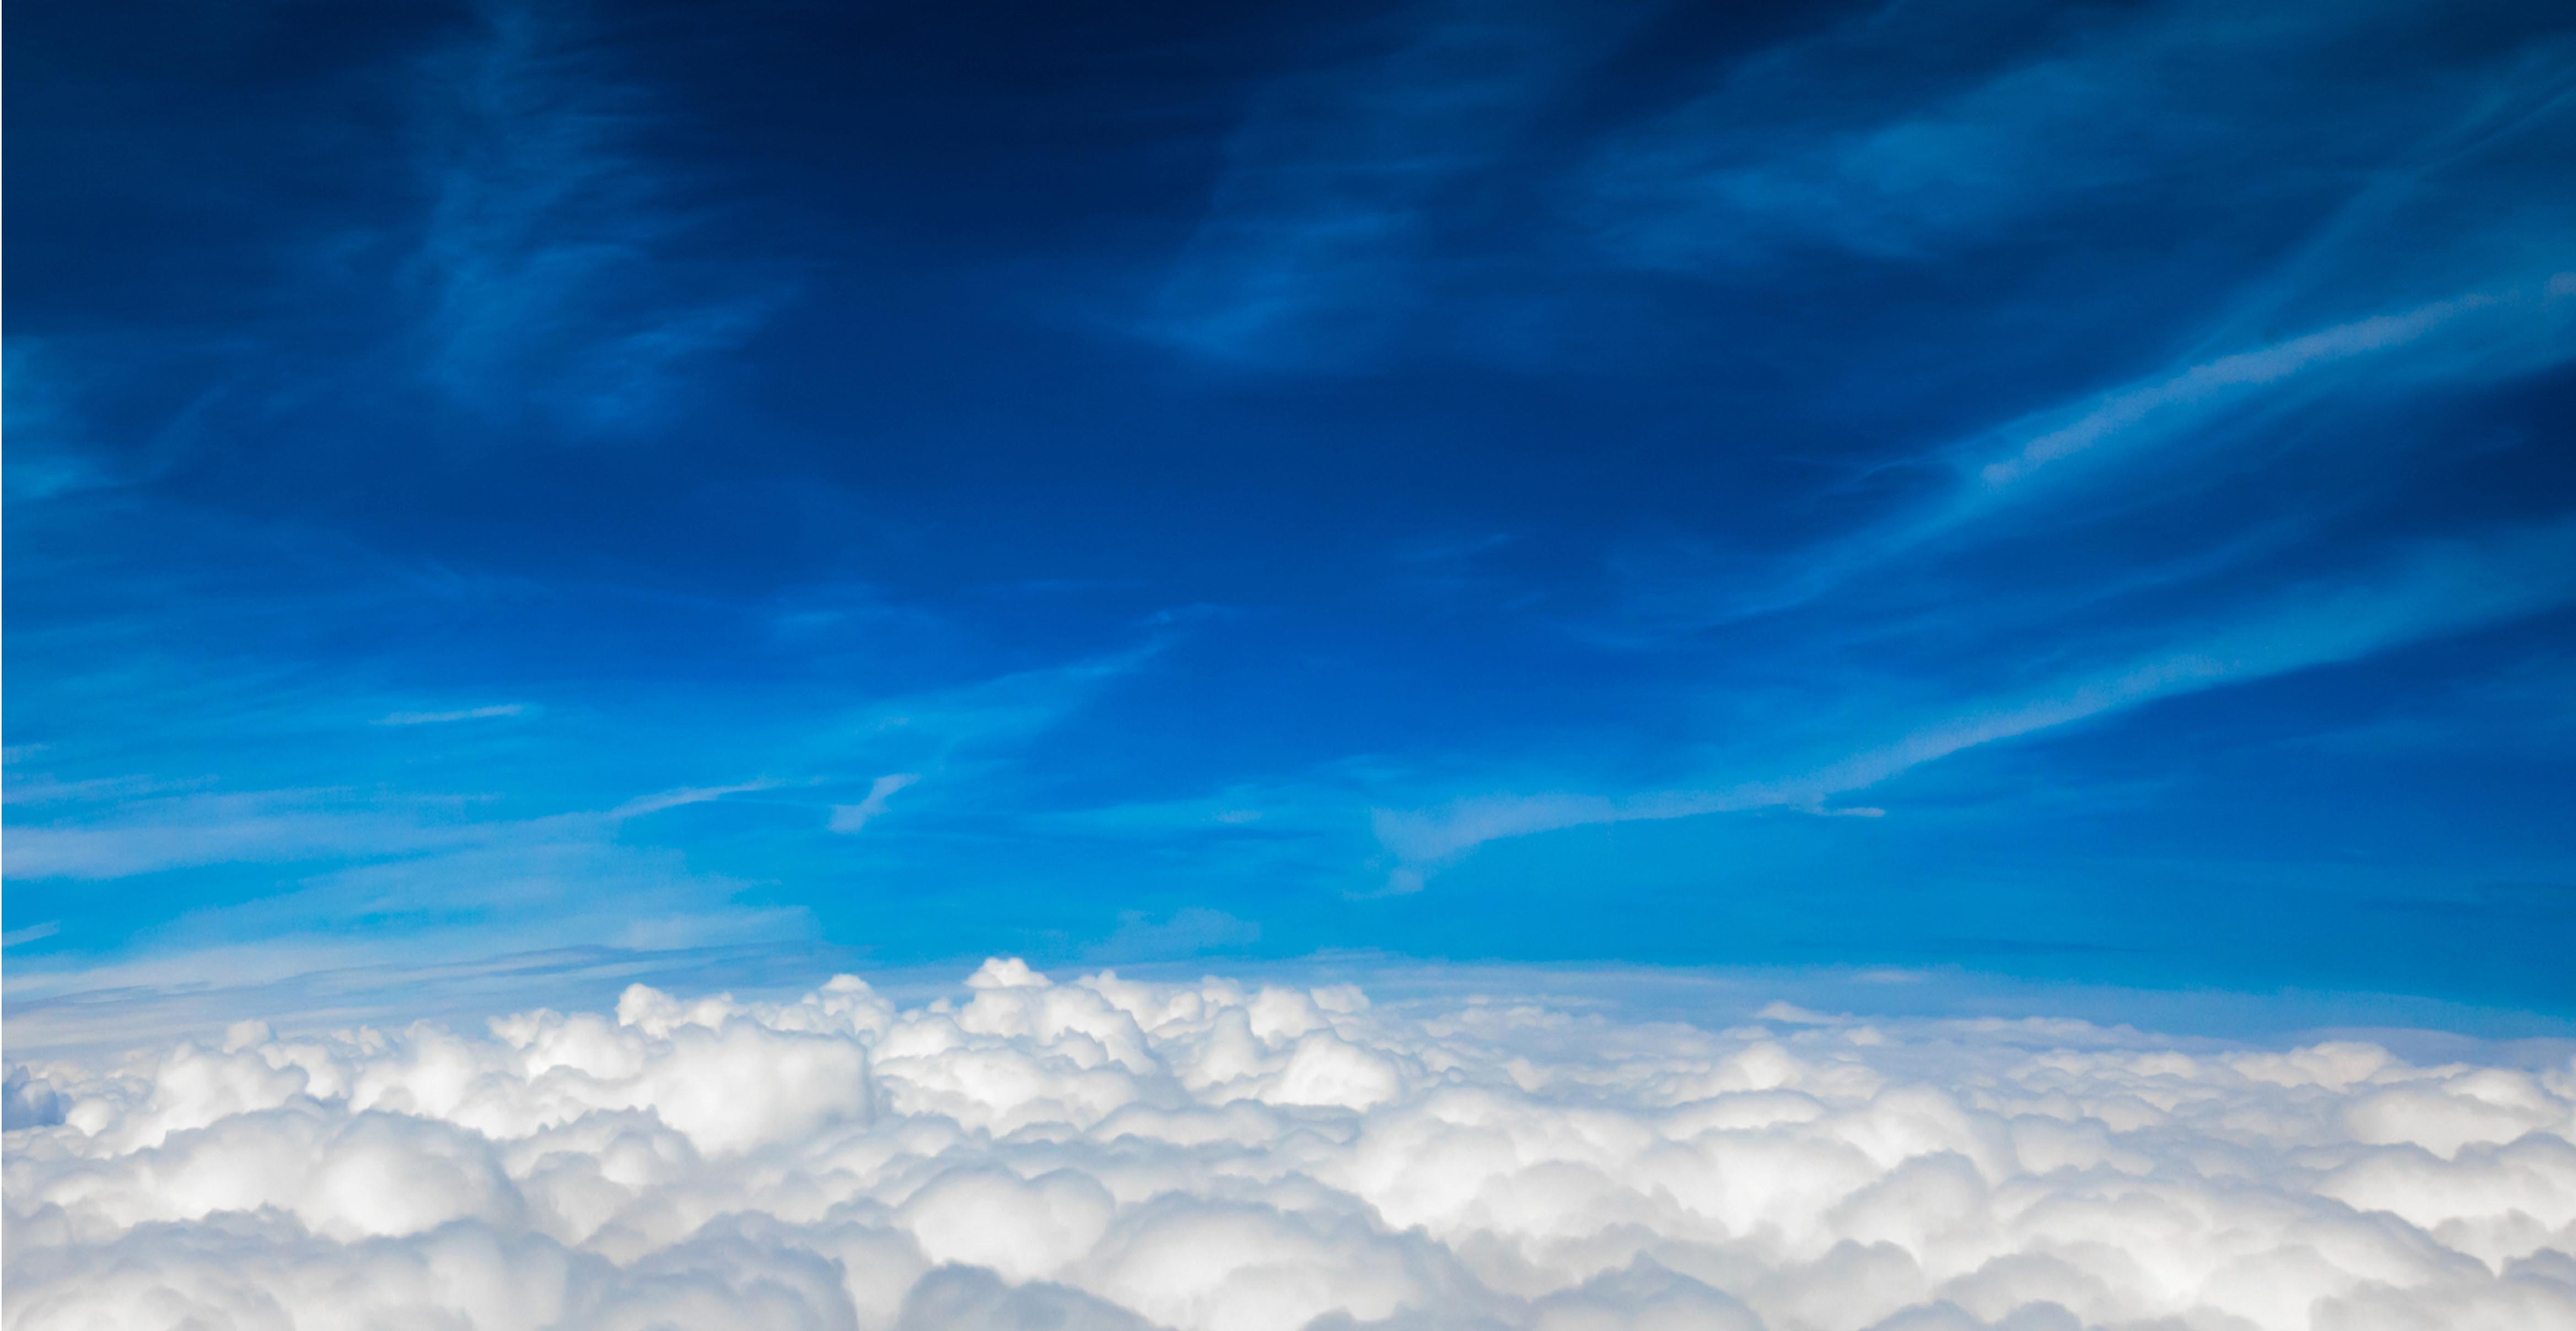
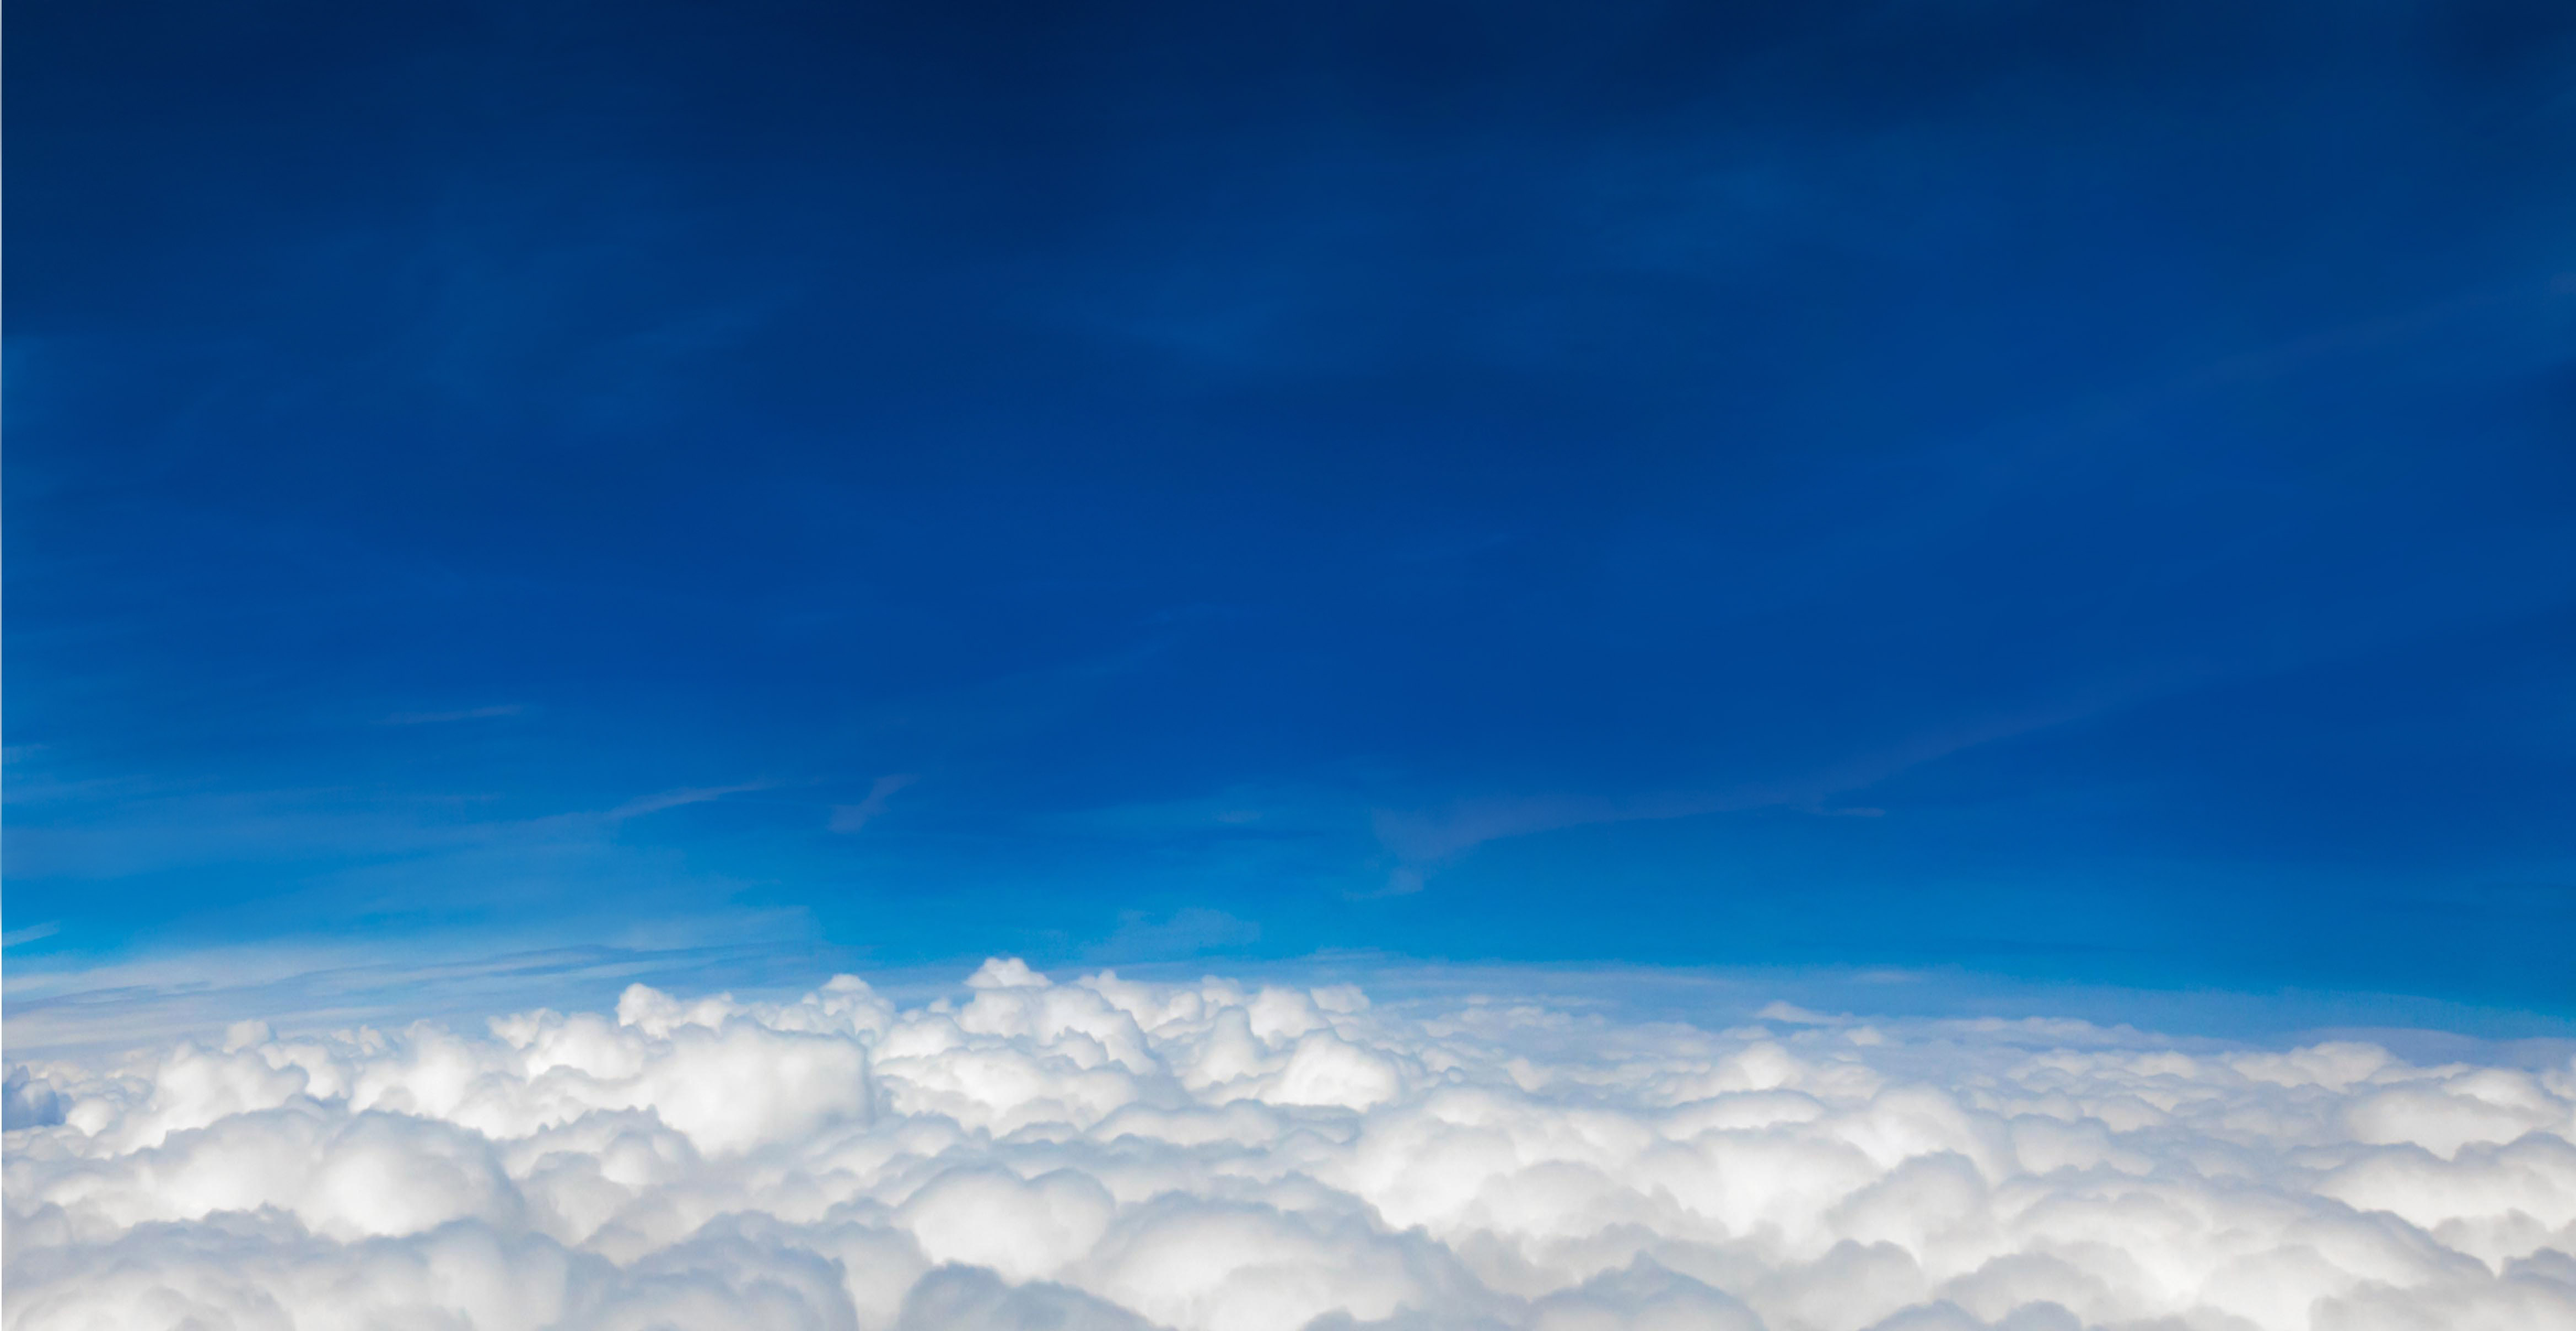
soften sky bg in hero

diff --git a/templates/css/main.scss b/templates/css/main.scss
@@ -70,8 +70,30 @@
       color: #fff;
     }
   }
+
 }
 
+
+.demo-cta {
+  font-size: 14px;
+  font-weight: 400;
+  a { color: #FFE3B2 }
+}
+.fade {
+  display: block;
+  background: red;
+  position: absolute;
+  height: 40px;
+  width: 100%;
+  margin-top: -60px;
+  background: -moz-linear-gradient(top,  rgba(255,255,255,0) 0%, rgba(255,255,255,0) 1%, rgba(255,255,255,1) 100%); /* FF3.6+ */
+  background: -webkit-gradient(linear, left top, left bottom, color-stop(0%,rgba(255,255,255,0)), color-stop(1%,rgba(255,255,255,0)), color-stop(100%,rgba(255,255,255,1))); /* Chrome,Safari4+ */
+  background: -webkit-linear-gradient(top,  rgba(255,255,255,0) 0%,rgba(255,255,255,0) 1%,rgba(255,255,255,1) 100%); /* Chrome10+,Safari5.1+ */
+  background: -o-linear-gradient(top,  rgba(255,255,255,0) 0%,rgba(255,255,255,0) 1%,rgba(255,255,255,1) 100%); /* Opera 11.10+ */
+  background: -ms-linear-gradient(top,  rgba(255,255,255,0) 0%,rgba(255,255,255,0) 1%,rgba(255,255,255,1) 100%); /* IE10+ */
+  background: linear-gradient(to bottom,  rgba(255,255,255,0) 0%,rgba(255,255,255,0) 1%,rgba(255,255,255,1) 100%); /* W3C */
+  filter: progid:DXImageTransform.Microsoft.gradient( startColorstr='#00ffffff', endColorstr='#ffffff',GradientType=0 ); /* IE6-9 */
+}
 .reasons {
   .hosting-partners {
     img { position: relative; top: -.5em }
